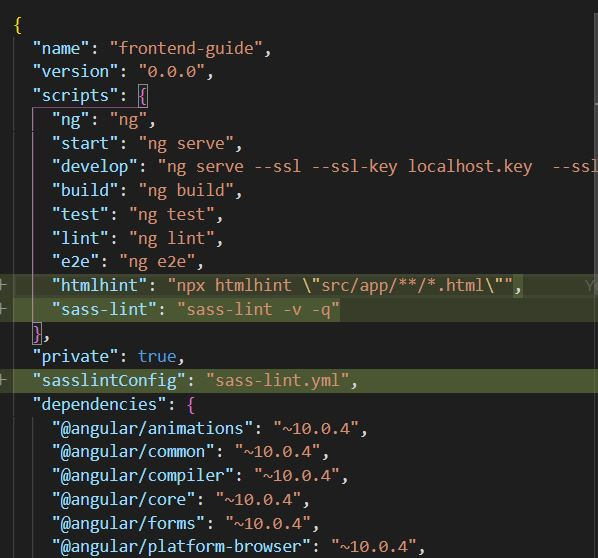
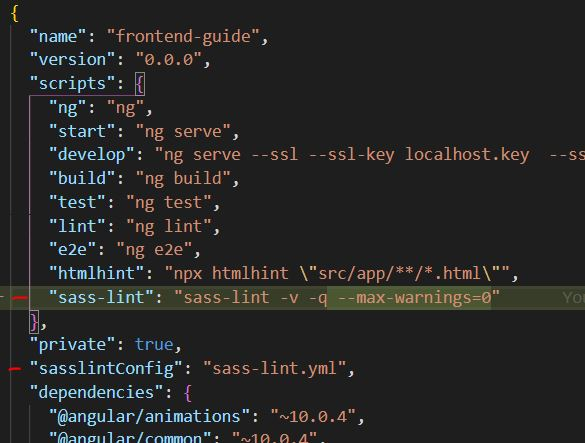
scss linting with pre-commit

Changed region(s): [[0.0, 0.0, 1.0, 1.0], [0.1846, 0.0587, 0.4615, 0.1467], [0.5846, 0.7336, 0.6154, 0.763]]

diff --git a/src/app/views/codeConventions/css/css.component.html b/src/app/views/codeConventions/css/css.component.html
@@ -126,9 +126,11 @@
     </div>
     <div class="col-6">
         <img src="assets/images/sass-lint-package-json-1.JPG" alt="add sass-lint to npm script" width="400" />
+        <p>Add sass-lint command more readable to your npm script section.</p>
     </div>
     <div class="col-6">
         <img src="assets/images/sass-lint-package-json-2.JPG" alt="add husky linting hook" width="400" />
+        <p>It is not possible to commit your code to git, if there are warnings or errors.</p>
     </div>
 
     <div class="col-12">

diff --git a/src/assets/styles/_colors.scss b/src/assets/styles/_colors.scss
@@ -10,6 +10,6 @@ $primary-color-80: rgba(26, 52, 87, 0.8);
 $primary-color-90: rgba(26, 52, 87, 0.9);
 
 $white-color: rgb(255, 255, 255);
-$black-color: rgb(0, 0, 0); 
+$black-color: rgb(0, 0, 0);
 $black-color-light: rgba(0, 0, 0, 0.5);
 $gray-color-light: rgb(204, 204, 204);
